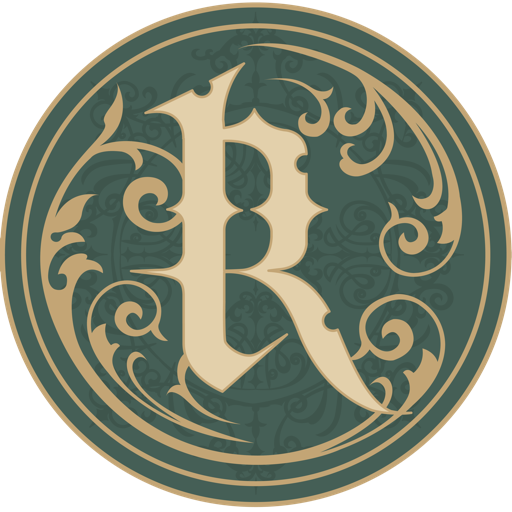
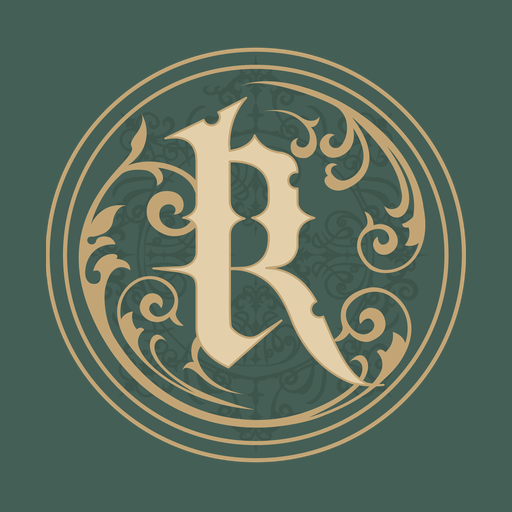
Fix PWA button problem

diff --git a/sw.js b/sw.js
@@ -1,4 +1,4 @@
-const CACHE_VERSION = "rugatha-pwa-v7";
+const CACHE_VERSION = "rugatha-pwa-v8";
 const STATIC_CACHE = `${CACHE_VERSION}-static`;
 const RUNTIME_CACHE = `${CACHE_VERSION}-runtime`;
 